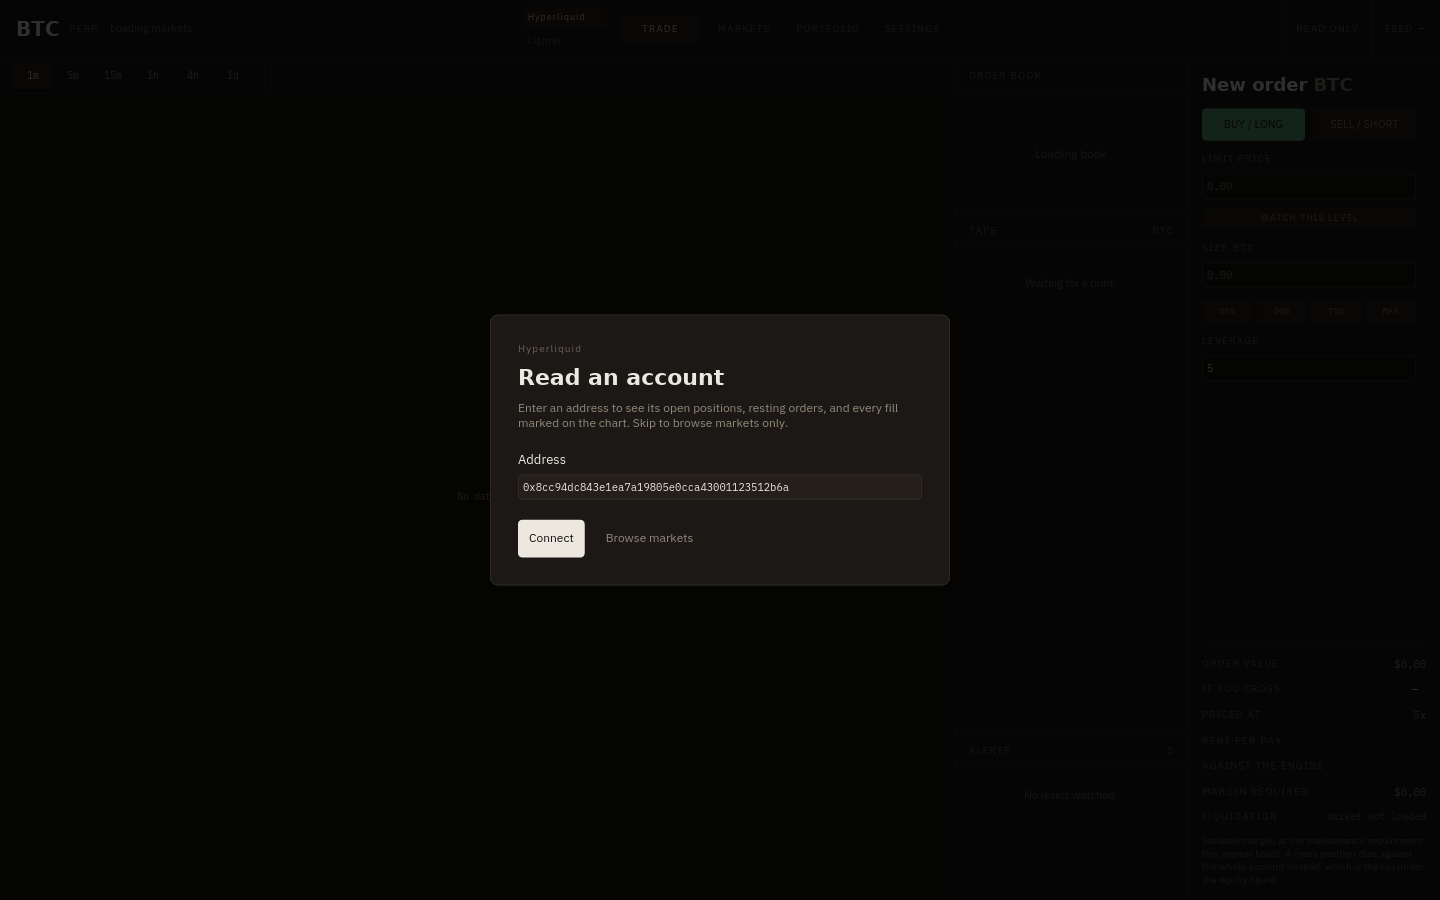
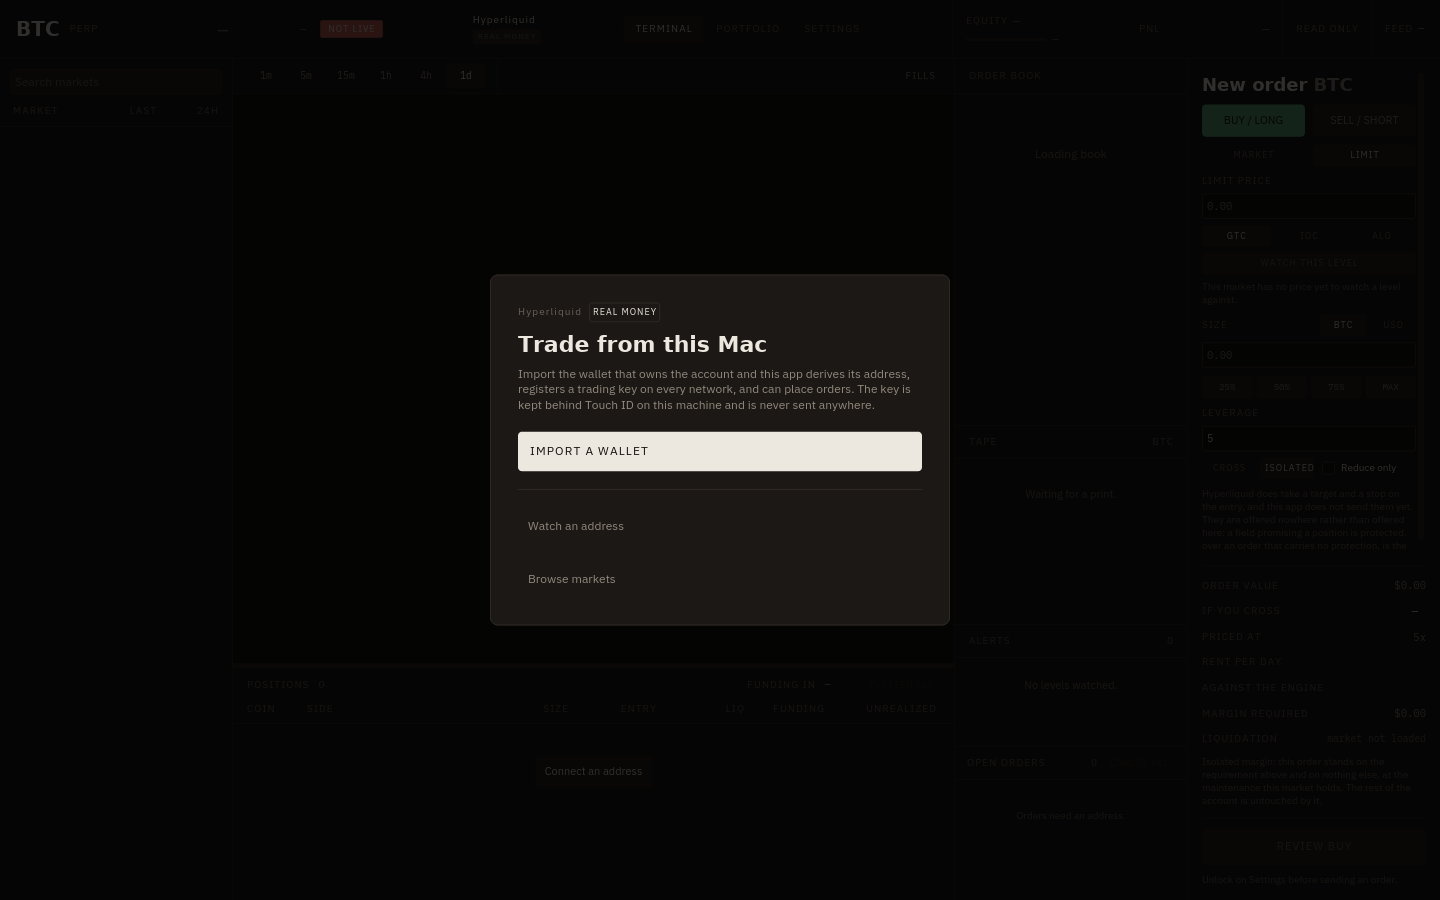
feat(trading): open on the wallet, and demote watching to what it is for
Owner review of #523: the app trades now, and the gate still opened by asking
for somebody else's address. The hierarchy was backwards.

**Import a wallet is the primary control** — first down the dialog and the only
one taking its whole width. The address on that path is *derived*, so the
address field is not on this surface at all: asking an owner to type an address
`seed.rs` can compute from their phrase is work the derivation exists to remove,
and a typo in it reads back an account that is not theirs with nothing on screen
admitting it.

**Watching is one press behind it**, named for its honest use rather than
offered as the way in — an account whose key you do not hold is one you can only
watch — and the address field lives there, with the refusal it always carried.
Read-only is in the button's own name, so nobody presses it expecting a key.
Browsing markets is last and unchanged.

**The network's kind is on the surface that asks for the phrase.** REAL MONEY or
TESTNET beside the name, because the next thing this screen wants is a recovery
phrase and nobody should have to go looking for which world they are handing it
to.

`reopen` lands where the reader was: somebody changing a watched address gets
the field, somebody leaving a browse session gets the wallet. The state already
knew which they were.

The hierarchy is asserted as a rendered fact rather than as a wording — the
import above both other paths, spanning the dialog's content width, and the
[…]

diff --git a/examples/trading/README.md b/examples/trading/README.md
@@ -664,6 +664,34 @@ is refused where the owner can still see what they typed, and a passphrase this
 app will not normalise — anything outside ASCII, since NFKD is not implemented
 here — is refused rather than silently derived into a different account.
 
+### Where onboarding starts
+
+The gate leads with the wallet. An app that can place orders should not open by
+asking for somebody else's address, so the three ways in are ordered by what
+they are *for* rather than by what the app happened to support first:
+
+1. **Import a wallet** — the primary control, the only one taking the dialog's
+   whole width. The address on this path is *derived*: asking an owner to type
+   an address the app can compute from their phrase is work the derivation
+   exists to remove, and a typo in it reads back an account that is not theirs
+   with nothing on screen admitting it. This is why the address field is not on
+   this surface at all.
+2. **Watch an address** — the read-only path, one press behind the first, named
+   for its honest use. An account whose key you do not hold is one you can only
+   watch, and the address field lives here with it. Nothing on this path can
+   sign, and the button says so before it is pressed.
+3. **Browse markets** — no account, no key, prices only.
+
+The network's name and its **REAL MONEY / TESTNET** kind sit above all three,
+because the next thing this screen asks for is a recovery phrase and nobody
+should have to go looking for which world they are handing it to.
+
+The hierarchy is asserted as a rendered fact rather than as a wording —
+`trading_the_gate_leads_with_the_wallet` holds that the import is above both
+other paths, that it spans the dialog's content width, and that the address box
+is *missing* from the surface — because a paragraph saying "wallet first" over a
+dialog that renders address-first would pass any assertion about the prose.
+
 **ponytail: the phrase transits Ice state while it is being typed.** The
 language has no write-only input, so the field binds to state like every other
 field. What holds it down is that the life is one press, that `check_phrase`
@@ -1795,11 +1823,11 @@ fixed point of it — and are opt-in:
 cargo test -p trading-example -- --ignored
 ```
 
-To capture the prompt as evidence:
+To capture the first surface as evidence:
 
 ```bash
 ICE_TEST_ARTIFACT_DIR=target/trading-evidence \
   cargo test -p trading-example __ice_tests::trading_gate_gates_the_app -- --exact --nocapture
 ```
 
-![Address prompt](screenshots/gate.png)
+![Onboarding](screenshots/gate.png)
